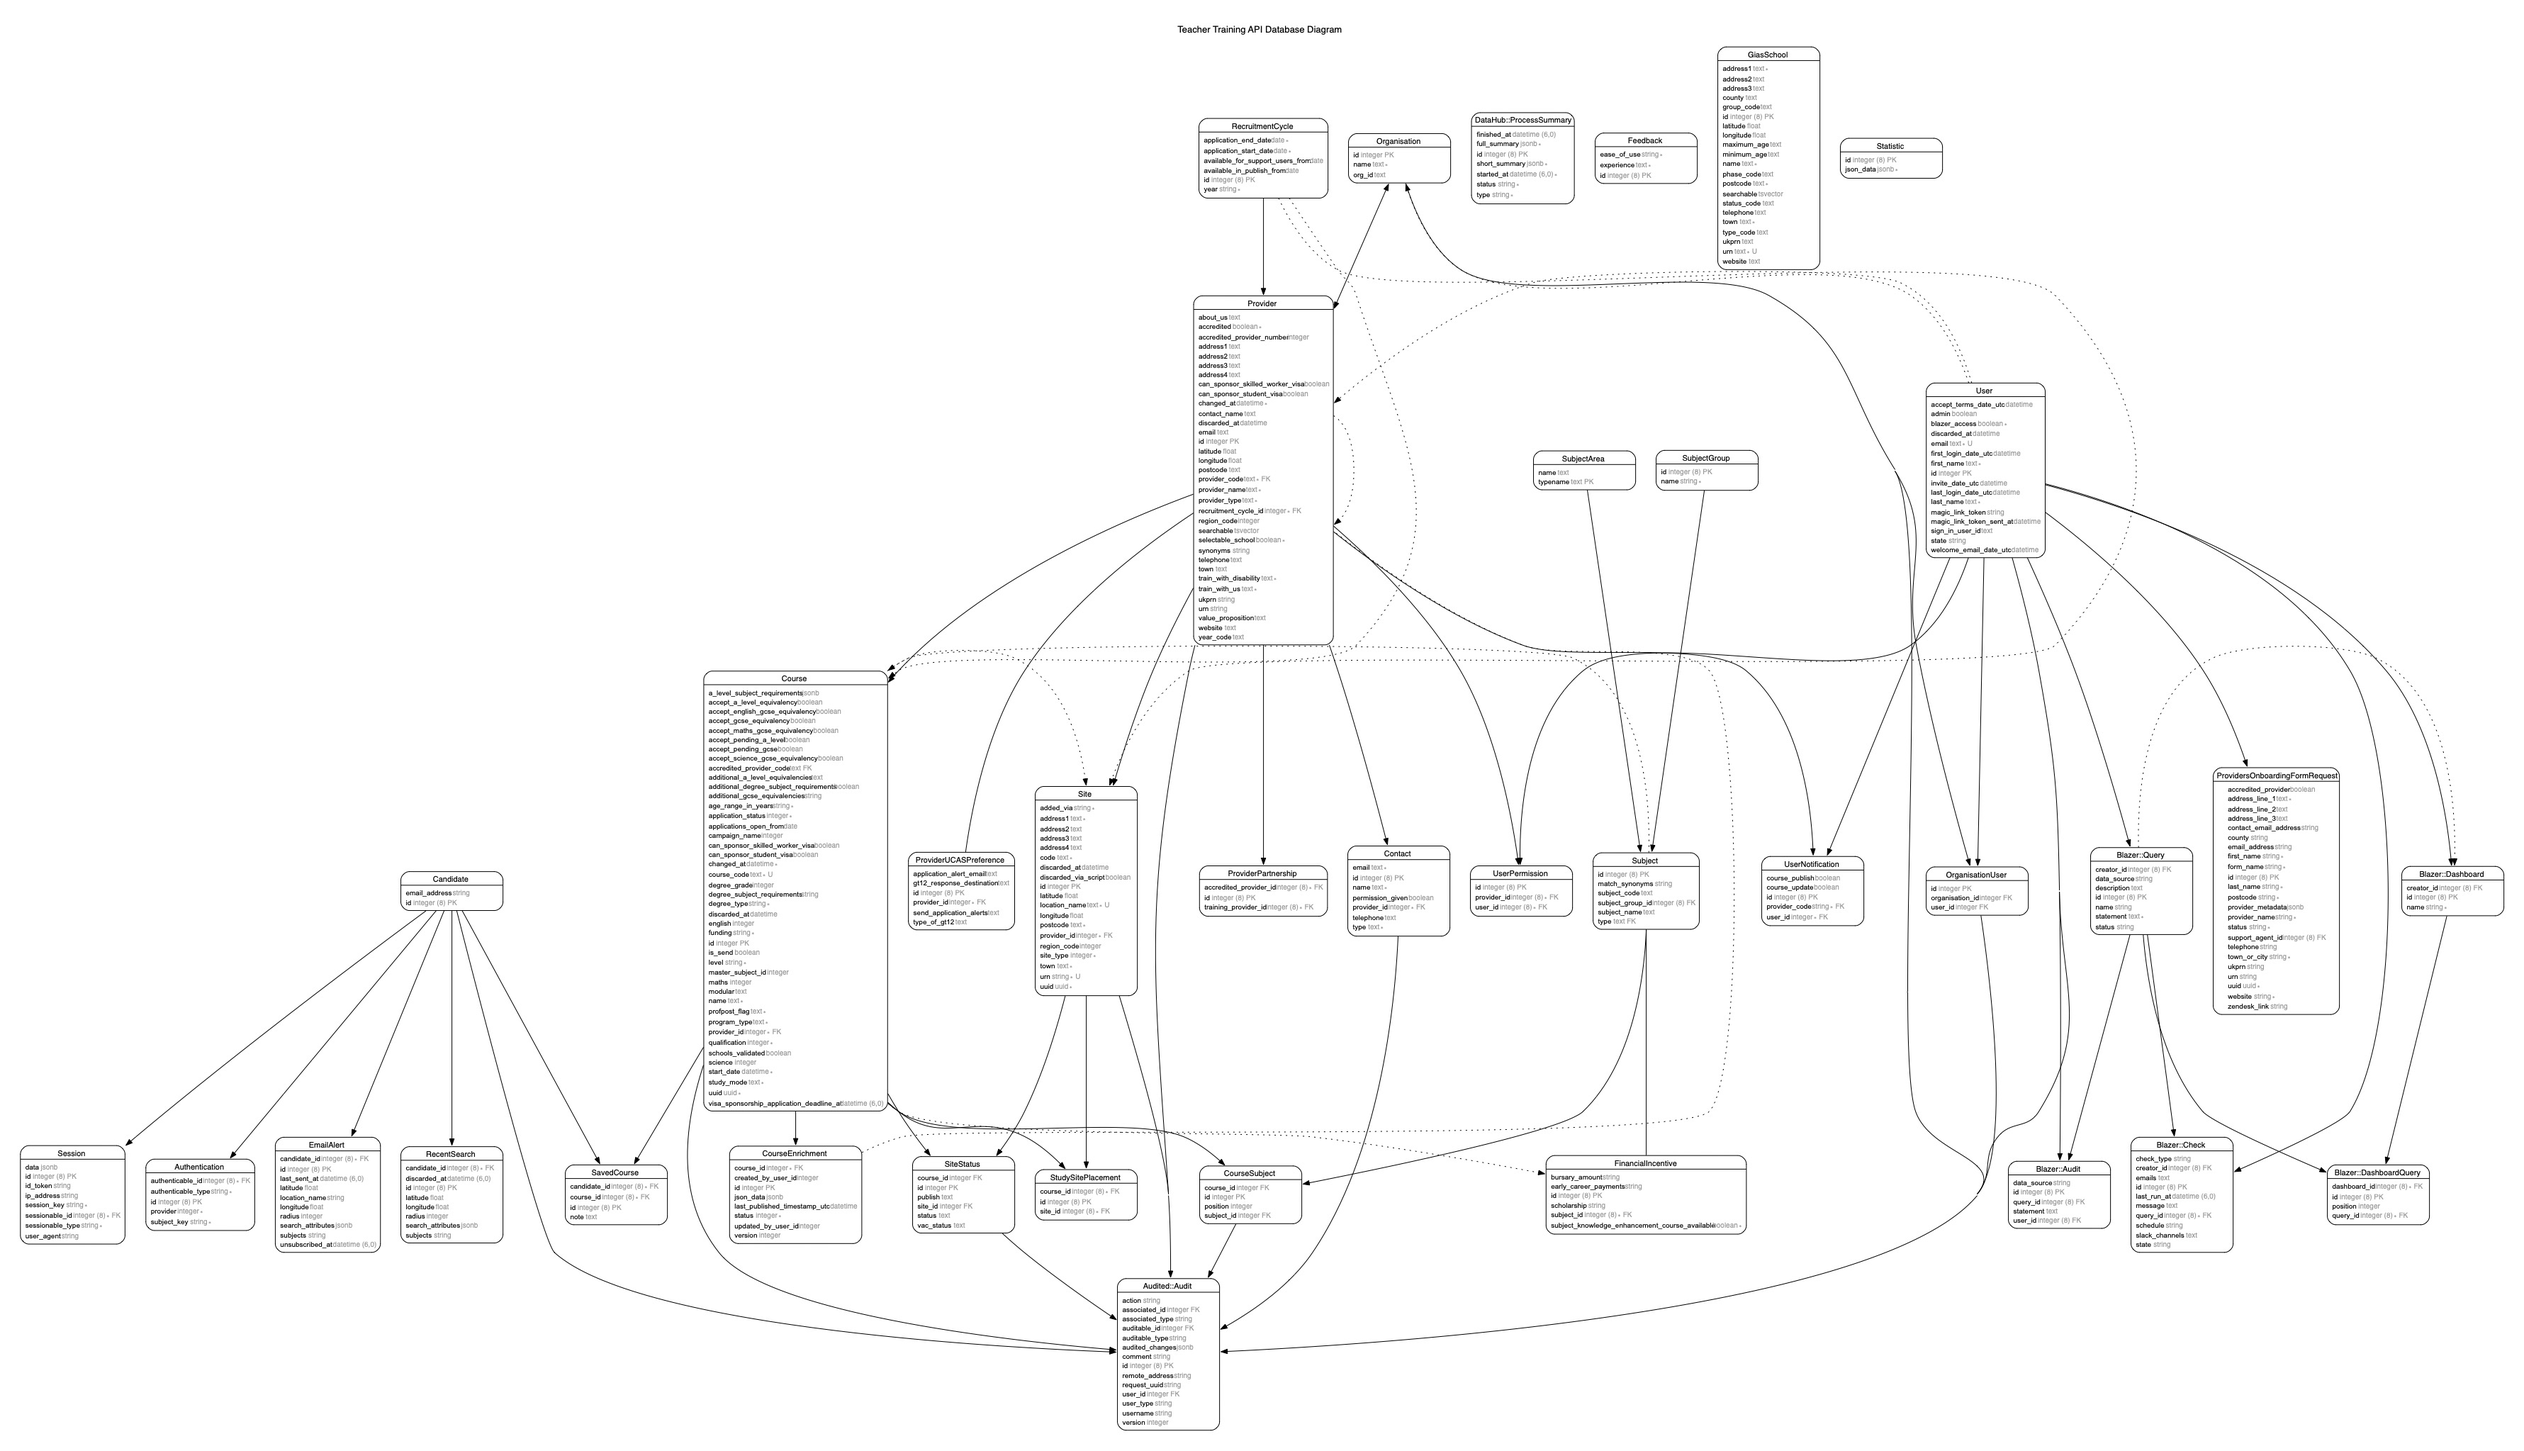
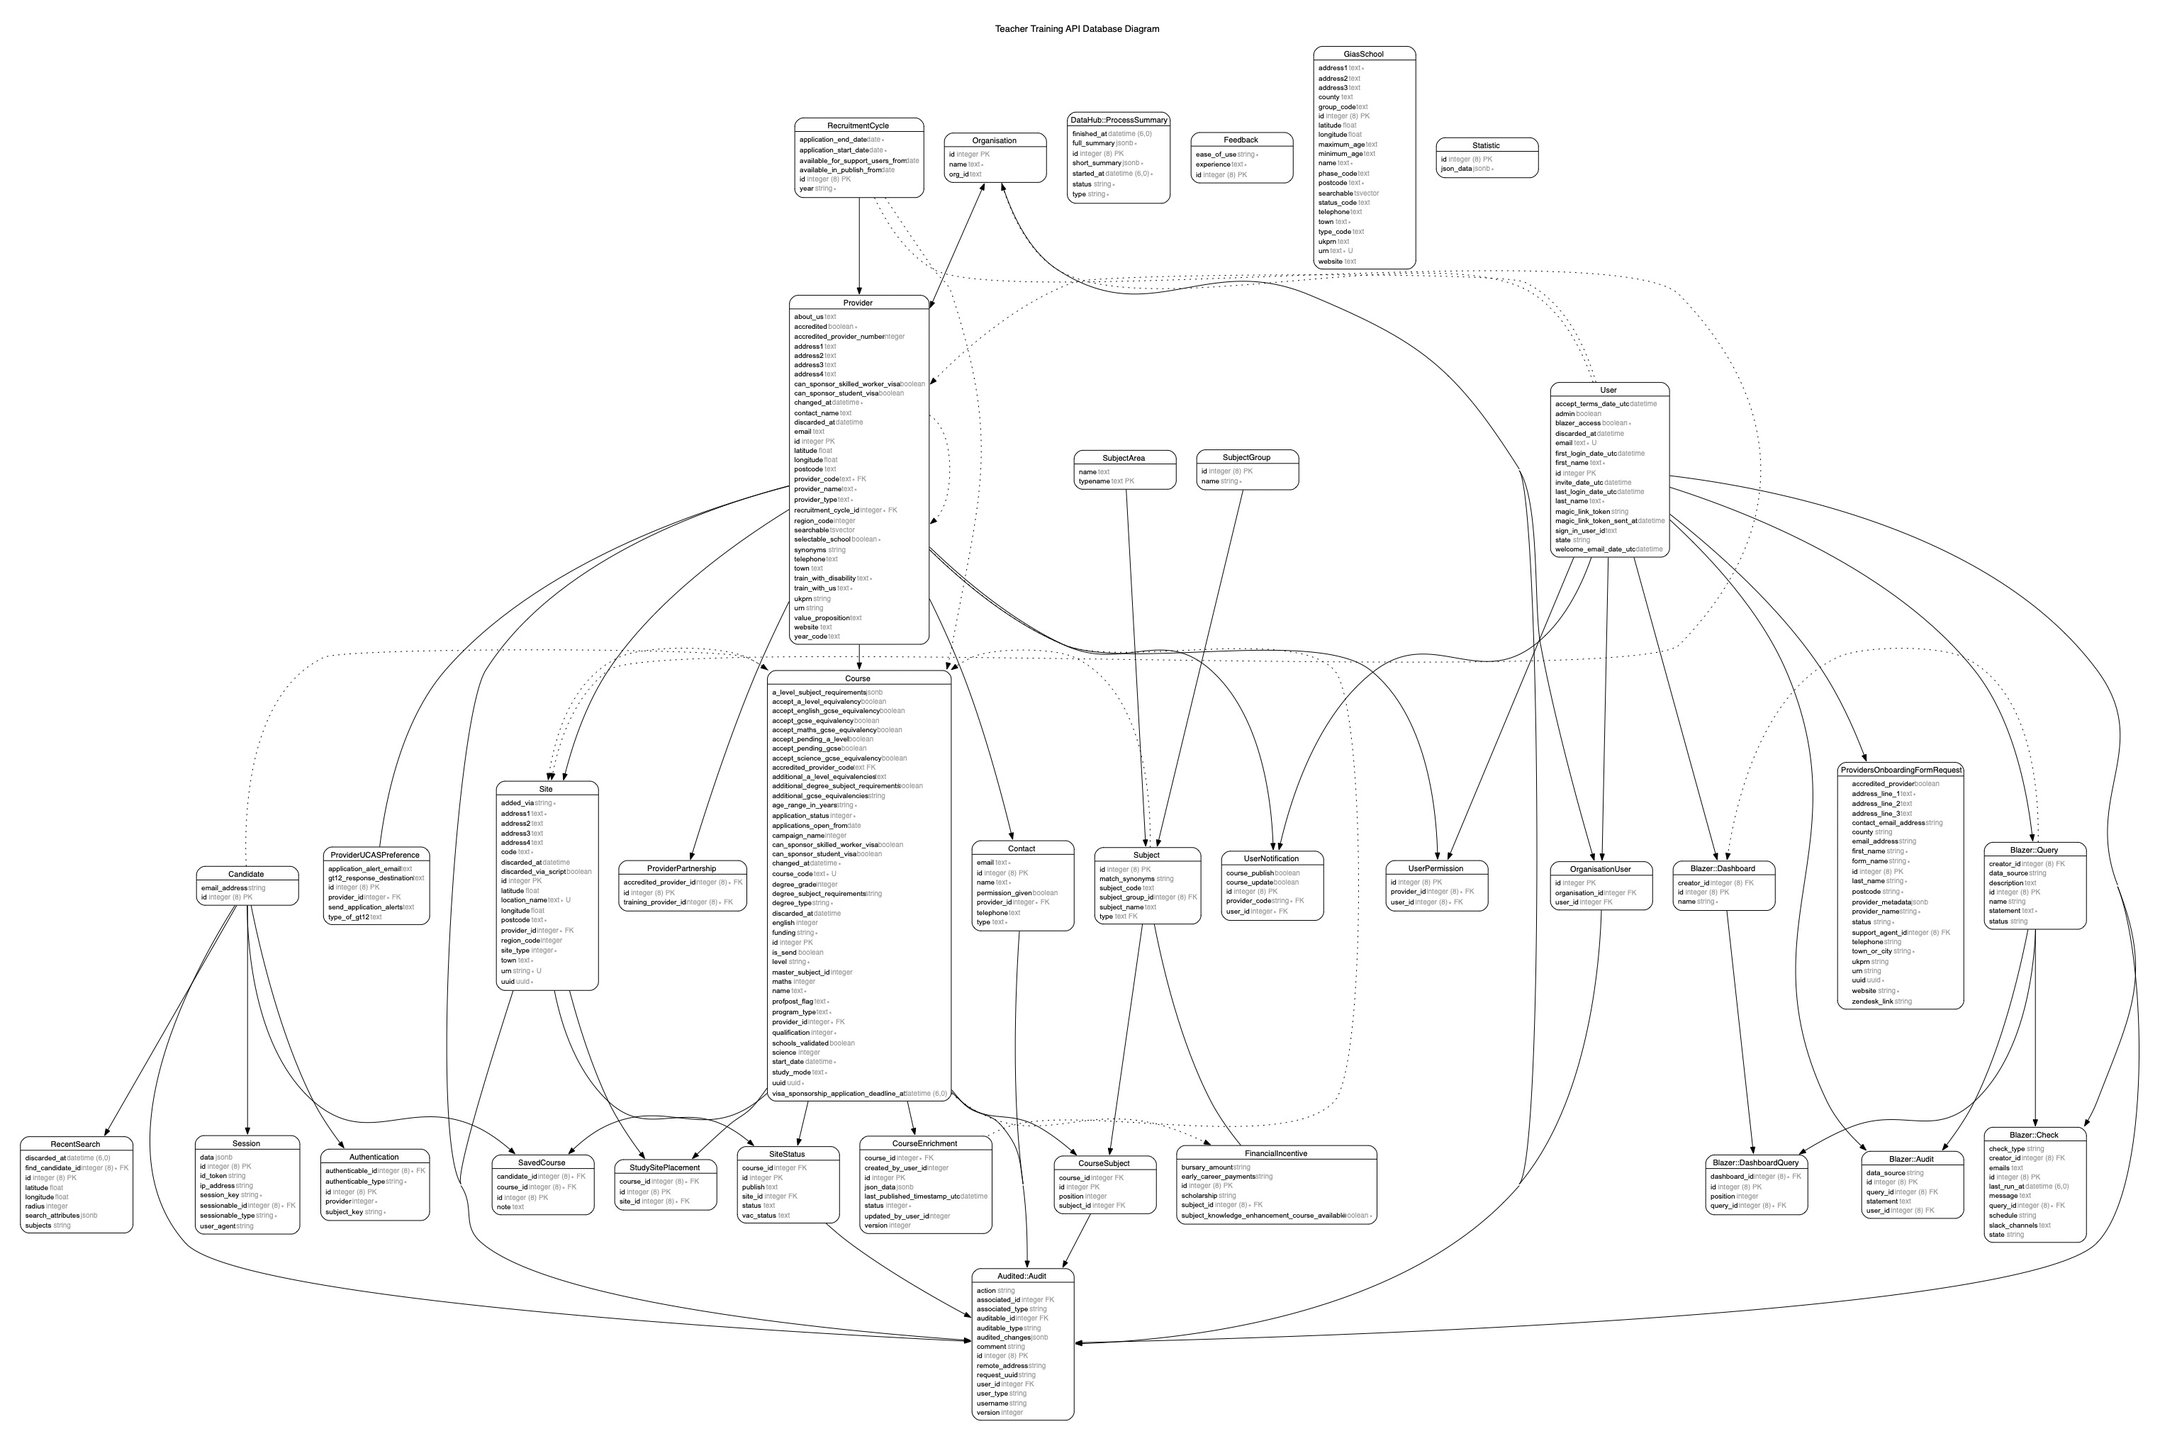
Change emal alerts table to candidate email alerts

diff --git a/db/schema.rb b/db/schema.rb
@@ -153,6 +153,7 @@ ActiveRecord::Schema[8.0].define(version: 2026_02_27_102121) do
     t.index ["find_candidate_id"], name: "index_candidate_recent_search_on_find_candidate_id"
   end
 
+
   create_table "contact", force: :cascade do |t|
     t.integer "provider_id", null: false
     t.text "type", null: false
@@ -303,23 +304,6 @@ ActiveRecord::Schema[8.0].define(version: 2026_02_27_102121) do
     t.datetime "created_at", precision: nil
     t.datetime "updated_at", precision: nil
     t.index ["priority", "run_at"], name: "delayed_jobs_priority"
-  end
-
-  create_table "email_alert", force: :cascade do |t|
-    t.bigint "candidate_id", null: false
-    t.string "subjects", default: [], array: true
-    t.float "longitude"
-    t.float "latitude"
-    t.integer "radius"
-    t.jsonb "search_attributes", default: {}
-    t.string "location_name"
-    t.datetime "last_sent_at"
-    t.datetime "unsubscribed_at"
-    t.datetime "created_at", null: false
-    t.datetime "updated_at", null: false
-    t.index ["candidate_id", "unsubscribed_at"], name: "index_email_alerts_candidate_active"
-    t.index ["candidate_id"], name: "index_email_alert_on_candidate_id"
-    t.index ["unsubscribed_at"], name: "index_email_alert_on_unsubscribed_at"
   end
 
   create_table "feedback", force: :cascade do |t|
@@ -646,7 +630,6 @@ ActiveRecord::Schema[8.0].define(version: 2026_02_27_102121) do
   add_foreign_key "course_site", "site", name: "FK_course_site_site_site_id", on_delete: :cascade
   add_foreign_key "course_subject", "course", name: "fk_course_subject__course"
   add_foreign_key "course_subject", "subject", name: "fk_course_subject__subject"
-  add_foreign_key "email_alert", "candidate"
   add_foreign_key "financial_incentive", "subject"
   add_foreign_key "organisation_provider", "organisation", name: "FK_organisation_provider_organisation_organisation_id"
   add_foreign_key "organisation_provider", "provider", name: "FK_organisation_provider_provider_provider_id"
